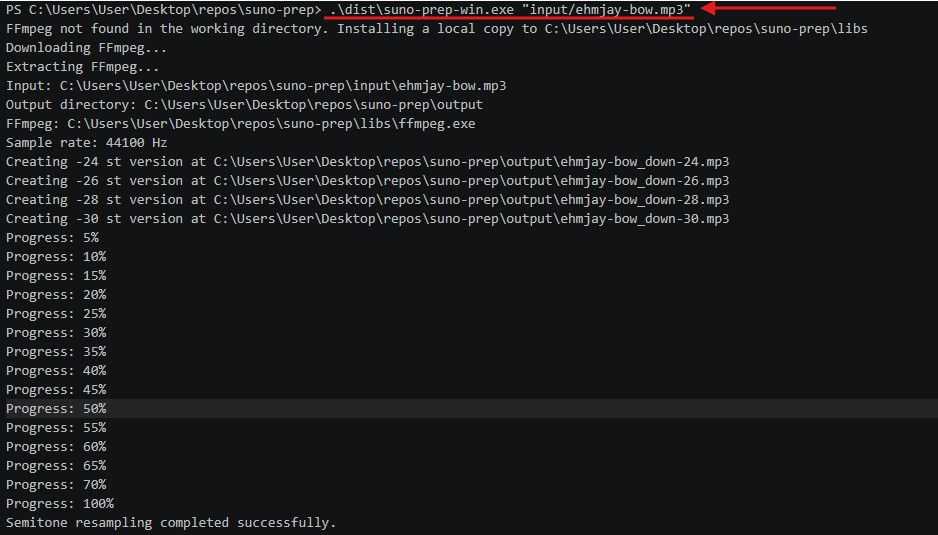
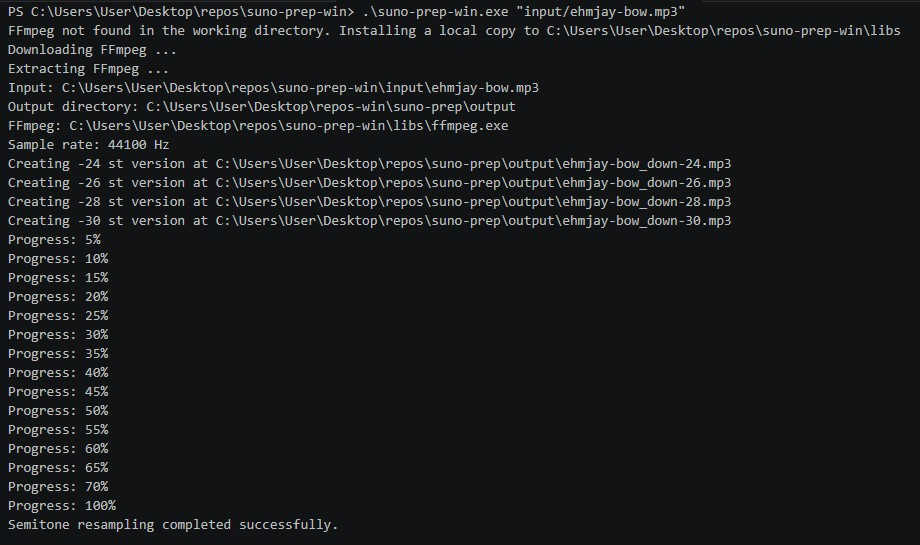
update
added proper instructions for the workflow

Changed region(s): [[0.0, 0.0, 0.9739, 0.9869]]

diff --git a/README.md b/README.md
@@ -1,8 +1,143 @@
 # suno-prep
 
-Audio resampling tool that shifts pitch by semitones by resampling the source audio.
+A tool that helps you upload songs to Suno when it complains that your song is recognized as existing work.
 
 ---
+
+
+## Using Prebuilt Binary With Suno
+
+This is the exact workflow:
+
+1. Run `suno-prep` on your source song
+2. Upload one of the down-pitched outputs into Suno Studio
+3. Use that uploaded to transpose back up inside Suno as needed (one time, two times, etc...)
+4. Export the finished up-transposed version of the song
+5. Be creative!
+
+The screenshot sequence below uses the Windows build and uses the `_down-26` file as the example clip.
+
+### Step 1 — Open the GitHub release page
+
+Open the repo and go to the latest release on the right side of the page.
+
+![Step 1](assets/images/step-1.jpg)
+
+### Step 2 — Download the binary for your OS
+
+From the release assets, download `suno-prep-win.zip` on Windows or `suno-prep-mac.zip` on macOS.
+
+![Step 2](assets/images/step-2.jpg)
+
+### Step 3 — Run the app on your source song
+
+Open a terminal in the repo folder and run the binary against your source file. Example on Windows:
+
+```powershell
+.\suno-prep-win.exe "input/ehmjay-bow.mp3"
+```
+
+The app will download `ffmpeg` and `ffprobe` into `libs/` if they are missing, then it will write the processed files into `output/`.
+
+![Step 3](assets/images/step-3.jpg)
+
+### Step 4 — Open Suno Studio
+
+In Suno, go to **Studio** from the left sidebar.
+
+![Step 4](assets/images/step-4.jpg)
+
+### Step 5 — Create a new Studio project
+
+Open the project menu and create a **New Project** so you are working in a clean timeline.
+
+![Step 5](assets/images/step-5.jpg)
+
+### Step 6 — Add one processed output to the timeline
+
+Take one of the generated files from `output/` and drag it into the Studio timeline. The screenshot sequence uses the `*_down-26.mp3` file as the example.
+
+IMPORTANT TO KNOW: For this document we use `*_down-26.mp3` which the original audio file has been transposed **DOWN** by 26 semitones because sometimes Suno still detects songs even if they are transposed down 24 semitones, so I needed to use the -26 version of the song.
+
+This will require that step 7 and 8 are repeated as seen in this document at step 11 through 15. You'll get the idea.
+
+![Step 6](assets/images/step-6.jpg)
+
+### Step 7 — Wait for the upload and set transpose to `+24`
+
+After the clip is on the timeline, select it and set **Transpose** to `+24` in the clip settings on the right.
+
+This screenshot specifically shows `SONG_DOWN-26.MP3` being uploaded while the transpose control is set to `+24`.
+
+![Step 7](assets/images/step-7.jpg)
+
+### Step 8 — Export the selected time range of the uploaded clip
+
+Select the full time range covered by the uploaded clip, then use **Export > Selected Time Range**.
+
+![Step 8](assets/images/step-8.jpg)
+
+### Step 9 — Open the Audio picker in Studio
+
+Back in the Studio project, click **Audio** in the left panel so you can pick audio from your uploads/project list.
+
+IMPORTANT TO KNOW: Sometimes your exported timeline selection will not show up in the audio library, to fix this we need to
+manually select the file in the audio picker.
+
+![Step 9](assets/images/step-9.jpg)
+
+### Step 10 — Choose the uploaded song to remix
+
+In the picker, find the uploaded song and choose it as the remix source.
+
+![Step 10](assets/images/step-10.jpg)
+
+### Step 11 — Confirm the uploaded audio is the source for the project
+
+After selecting it, the clip appears as the active audio source in the left panel. Keep the project in **Cover** mode as shown.
+
+![Step 11](assets/images/step-11.jpg)
+
+### Step 12 — Place the generated clip into the lower track area
+
+Once the clip is available in the project, position it in the lower track lane so it lines up with the section you want to work with.
+
+![Step 12](assets/images/step-12.jpg)
+
+### Step 13 — Set the Suno-generated clip transpose to `+2`
+
+Select the yellow clip on the timeline and set **Transpose** to `+2` in the clip settings.
+
+![Step 13](assets/images/step-13.jpg)
+
+### Step 14 — Mute the original track and select only the final clip range
+
+Mute the upper/original track and highlight only the range of the lower generated clip that you want to export.
+
+![Step 14](assets/images/step-14.jpg)
+
+### Step 15 — Export the final selected range
+
+Use **Export > Selected Time Range** to export the final Suno result.
+
+![Step 15](assets/images/step-15.jpg)
+
+### Step 16 — COMPLETED!!!
+
+Now you can remix your song as you wish.
+
+
+
+### Practical Notes
+
+- The screenshot flow uses the `_down-26` output as the example, but the app also generates `_down-24`, `_down-28`, and `_down-30` by default.
+- If one version does not behave the way you want in Suno, repeat the same Studio workflow with one of the other generated outputs.
+- The app writes processed files into `output/` by default.
+- If `ffmpeg` is missing, the app downloads local binaries into `libs/` automatically.
+
+---
+
+# Developer mode
 
 ## Requirements
 